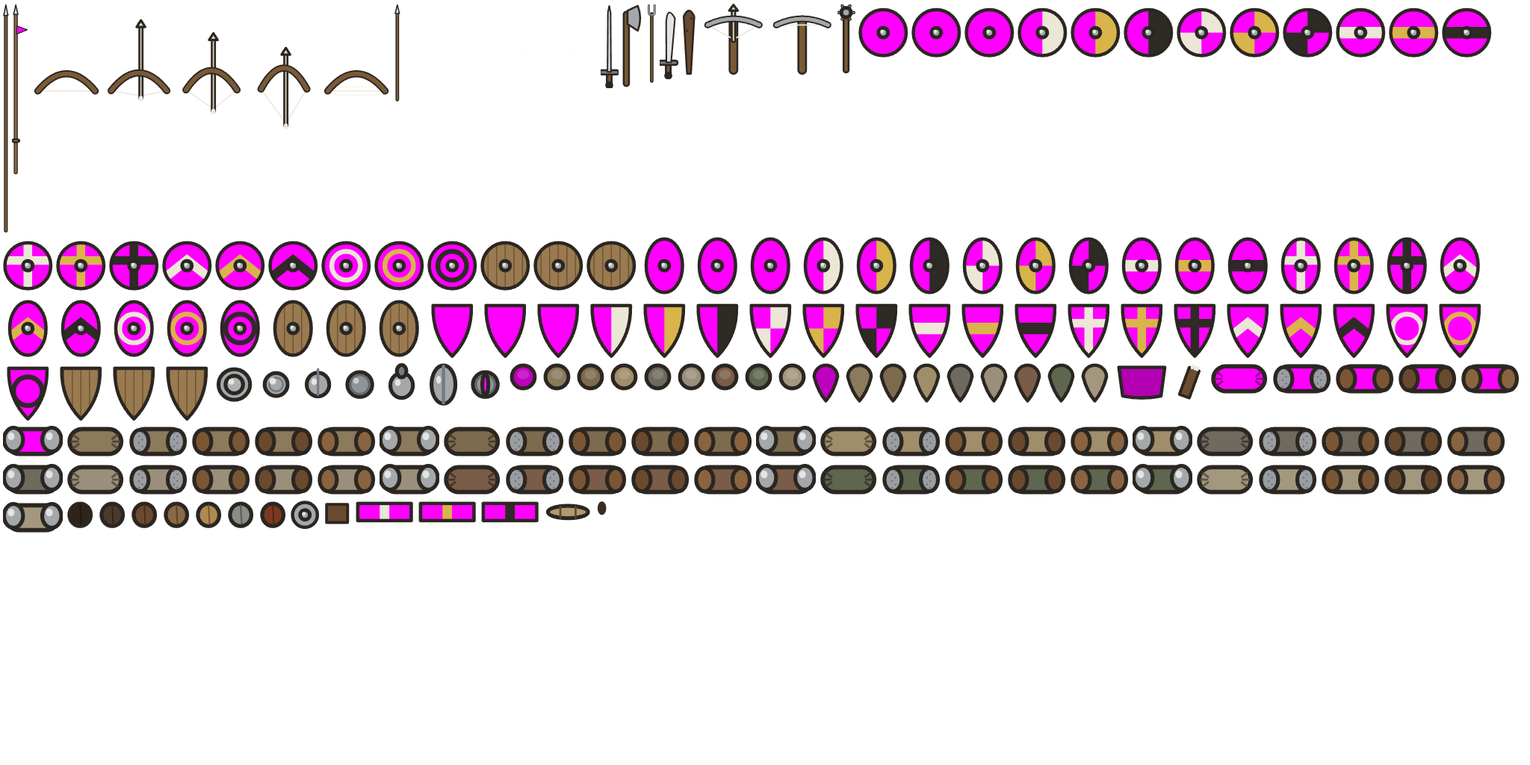
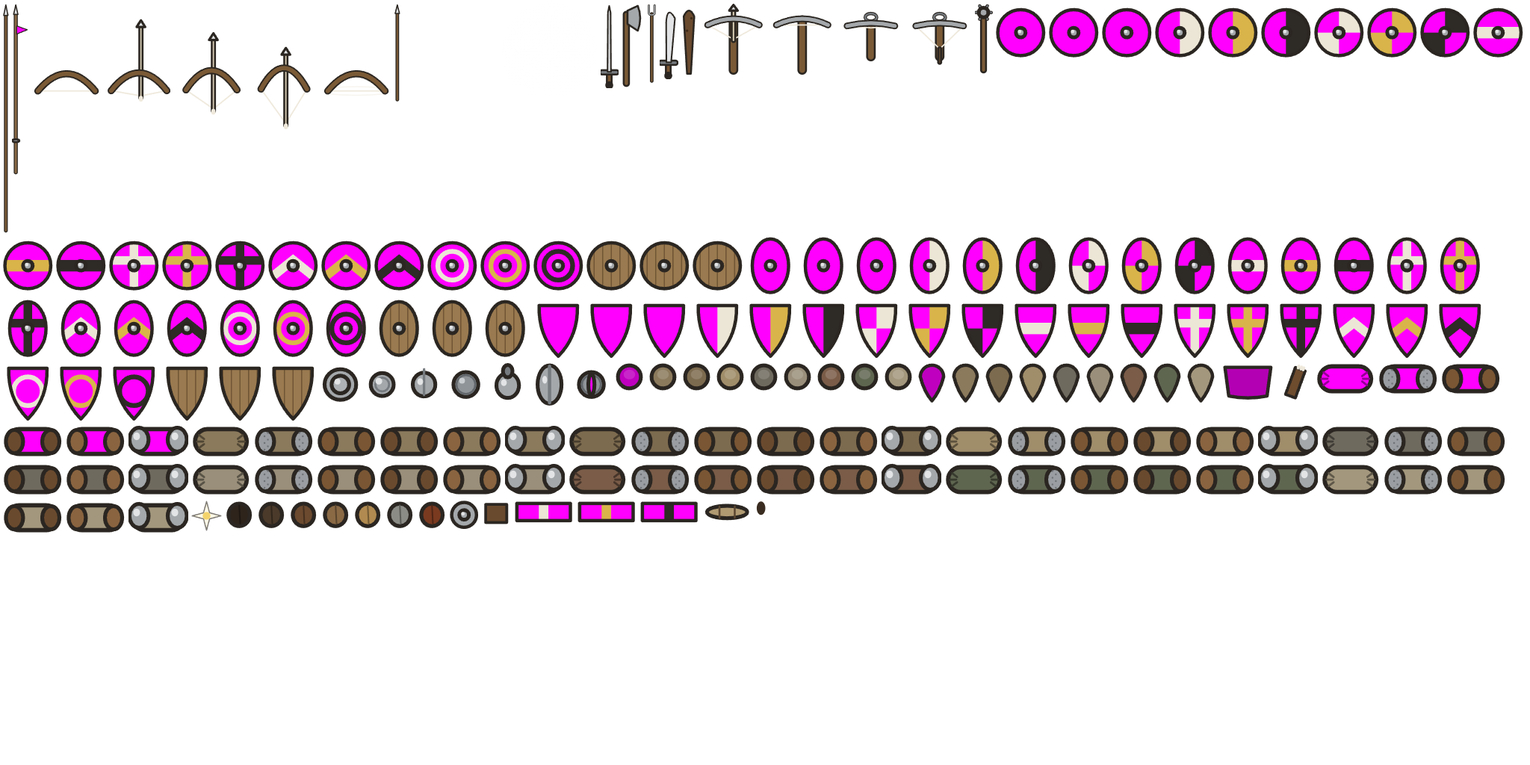
Анимации, пачка 1 (В13): конь из частей и аллюры, древки к бою, удары, взвод арбалета, раненые
- Конь из частей: ноги, хвост, туловище, голова, попона; аллюр по скорости — шаг, рысь, галоп; стоящий конь переступает, машет хвостом, вскидывает голову
- Фаза шага копится по пройденному пути: ноги пеших и коней не скользят при смене скорости
- Пики и копья стоймя на марше, опускаются у врага (схватка или ближе 30 м) — передние первыми
- Удары: меч рубит и колет, топор, булава и дубина — сбоку и сверху; щит навстречу удару; вспышка в миг удара
- Арбалет взводят через стремя (xbow/2, xbow/3); бегущие оглядываются; сплотившиеся ликуют
- Павший сначала качнётся от удара, потом падает; всадник слетает с убитого коня
- Раненые (Г39): движок отмечает убит/ранен и в рукопашной — по доле убитых в итогах удара стола (ожидаемой, пока окно удара не закрыто); раненый бросает оружие и ползёт прочь от врага с кровавым следом или корчится, потом затихает. Только вид, правила те же
- Полигон: сцена «Облик: анимации»; павшие с признаком убит/ранен
- Атласы Unity: hrig/… (конь по частям), crawl/… (раненый), xbow/2–3, util/spark; старые части на месте
- Тесты: раненые в рукопашной; прогон тестов бойцов — `dotnet run --project Tests -- men`

Changed region(s): [[0.0, 0.3125, 1.0, 0.7188], [0.5312, 0.0, 1.0, 0.0938]]

diff --git a/core/Tests/atlas-export.js b/core/Tests/atlas-export.js
@@ -45,12 +45,13 @@
     // древки длинные и тонкие — им хватает половины разрешения, иначе одна полка атласа занимает полвысоты
     for(const w of Object.keys(WBOX)) add("men", "weapon/" + w, WBOX[w], g => paintWeapon(g, w, KEY), ["pike", "lance", "spear", "fork"].includes(w) ? 0.5 : 1);
     for(let st = 0; st <= 4; st++) add("men", "bow/" + st, [-0.36, -1.12, 0.36, 0.2], g => paintBow(g, st));
-    for(let st = 0; st <= 1; st++) add("men", "xbow/" + st, [-0.3, -0.68, 0.38, 0.08], g => paintXbow(g, st));
+    for(let st = 0; st <= 3; st++) add("men", "xbow/" + st, [-0.3, -0.68, 0.38, 0.08], g => paintXbow(g, st));   // 2, 3 — взвод через стремя (В13)
     add("men", "boot", [-0.06, -0.08, 0.06, 0.08], g => ell(g, 0, 0, 0.045, 0.07, "#3a2c20", 0, false));
     // служебные: белый круг и мягкое пятно (кровь, тени — Unity красит цветом вершины), белый квадрат (стрелы)
     add("men", "util/disc", [-0.5, -0.5, 0.5, 0.5], g => { g.beginPath(); g.arc(0, 0, 0.48, 0, 6.283); g.fillStyle = "#fff"; g.fill(); });
     add("men", "util/soft", [-0.5, -0.5, 0.5, 0.5], g => { const gr = g.createRadialGradient(0, 0, 0, 0, 0, 0.5); gr.addColorStop(0, "rgba(255,255,255,1)"); gr.addColorStop(0.6, "rgba(255,255,255,.55)"); gr.addColorStop(1, "rgba(255,255,255,0)"); g.fillStyle = gr; g.fillRect(-0.5, -0.5, 1, 1); });
     add("men", "util/px", [-0.05, -0.05, 0.05, 0.05], g => { g.fillStyle = "#fff"; g.fillRect(-0.05, -0.05, 0.1, 0.1); });
+    add("men", "util/spark", [-0.16, -0.16, 0.16, 0.16], paintSpark);   // вспышка удара (В13)
     // кони: масть × попона × кадр галопа (−1 — стоит)
     COATS.forEach((coat, ci) => {
       const bards = [["none", 0], ["cloth", 0], ["full", 0], ["full", 1], ["full", 2]];
@@ -58,11 +59,28 @@
         add("horses", `horse/${ci}/${bard}${bard === "full" ? "/" + c2i : ""}/${f}`, [-0.36, -1.36, 0.36, 1.37],
           g => paintHorse(g, {coat, bard, col: KEY, c2: C2[c2i]}, f));
       for(const bard of ["none", "cloth", "full"]) add("dead", `deadhorse/${ci}/${bard}`, [-0.5, -1.35, 0.75, 1.0], g => paintDeadHorse(g, {coat, bard, col: KEY}));
+      // конь по частям (В13): ноги, хвост, туловище, голова (у полной барды — в стальном налобнике); места и походка —
+      // HLEG, HTAIL, HNECK и horsePose в polygon-men.js
+      const k = {coat, bard: "none", col: KEY};
+      add("horses", `hrig/leg/${ci}`, HBOX.leg, g => paintHorseLeg(g, k));
+      add("horses", `hrig/tail/${ci}`, HBOX.tail, g => paintHorseTail(g, k));
+      add("horses", `hrig/body/${ci}`, HBOX.body, g => paintHorseBody(g, k));
+      add("horses", `hrig/head/${ci}`, HBOX.head, g => paintHorseHead(g, k));
+      add("horses", `hrig/head/${ci}/full`, HBOX.head, g => paintHorseHead(g, {coat, bard: "full", col: KEY}));
     });
+    // попоны поверх туловища: седло, чепрак цвета стороны, полная барда с полосой герба
+    add("horses", "hrig/cover/none", HBOX.cover, g => paintHorseCover(g, {bard: "none", col: KEY}));
+    add("horses", "hrig/cover/cloth", HBOX.cover, g => paintHorseCover(g, {bard: "cloth", col: KEY}));
+    C2.forEach((c2, i) => add("horses", "hrig/cover/full/" + i, HBOX.cover, g => paintHorseCover(g, {bard: "full", col: KEY, c2})));
     // павшие: лежит на спине, голова — к −y (её рисует Unity шлемом), ноги у начала
     for(const ck of CLOTH_KEYS) for(const a of ARMOURS) for(let v = 0; v < 2; v++){
       const [armour, leather] = armourOf(a);
       add("dead", `corpse/${ck}/${a}/${v}`, [-0.72, -0.5, 0.72, 0.95], g => corpseBody(g, clothOf(ck), armour, leather, v));
+    }
+    // раненый ползёт (Г39, В13): лицом вниз, без головы (её Unity кладёт шлемом), рывок за рывком — отражённый рисунок
+    for(const ck of CLOTH_KEYS) for(const a of ARMOURS){
+      const [armour, leather] = armourOf(a);
+      add("dead", `crawl/${ck}/${a}`, [-0.5, -1.06, 0.45, 0.95], g => paintCrawlBody(g, clothOf(ck), armour, leather));
     }
     // природа: кроны деревьев (4 палитры × 6 форм), кусты, камни — радиус 1, Unity растягивает до нужного
     TREES.forEach((pal, pi) => { for(let s = 0; s < 6; s++) add("nature", `tree/${pi}/${s}`, [-1.2, -1.2, 1.2, 1.2], g => crownUnit(g, s * 977 + pi * 31, pal, 7)); });

diff --git a/core/Tests/Polygon.cs b/core/Tests/Polygon.cs
@@ -278,6 +278,27 @@ static class Polygon
             if (rec1.Fleeing) rally.Battle.Order(rec1, new MoveOrder { Kind = OrderKind.Rally });   // игрок приказывает каждый ход, пока бегут
         };
         list.Add(rally);
+
+        // Облик (В13): анимации пачки 1 — древки к бою, взвод арбалета, аллюры коня, удары, павшие и раненые
+        var anim = new Scene { Name = "Облик: анимации", Turns = 3, Geo = MoveTests.Open(1300, 800),
+            Note = "В13. Слева пикинёры идут на пехоту с пиками стоймя и опускают их, когда до врага 30 м, — передние первыми. " +
+                   "Дальше арбалетчики бьют по пехоте и взводят арбалеты через стремя. Пехота рубит ополчение: удары сбоку и сверху, " +
+                   "уколы, щит навстречу удару, вспышка в миг удара. Справа рыцари шагом и рысью выходят на 40 м и встают — кони переступают " +
+                   "и машут хвостами. Павший сначала качнётся от удара, потом падает; раненые (доля — по итогам удара стола, Г39) " +
+                   "ползут прочь от врага, оставляя кровавый след, или корчатся на месте и через 4–12 с затихают." };
+        anim.Battle = new Battle(anim.Geo, R0, new EngineContext { Rng = new Mulberry32(13).Next });
+        anim.Fighter("infantry", 2, "Враг: пехота", 190, 420, 0, faction: 2, men: 400);
+        var apk = anim.Fighter("pikemen", 1, "Пикинёры", 190, 420 - 170, 180, men: 400);
+        anim.Fighter("infantry", 4, "Враг: пехота Б", 520, 420, 0, faction: 2, men: 400);
+        var axb = anim.Fighter("crossbowmen", 3, "Арбалетчики", 520, 420 - 115, 180, men: 300);
+        anim.Fighter("militia", 6, "Враг: ополчение", 850, 420, 0, faction: 2, men: 400);
+        var ain = anim.Fighter("infantry", 5, "Пехота", 850, 420 - (4 + 0.5 + 4), 180, men: 400);
+        var akn = anim.Fighter("knights", 7, "Рыцари", 1150, 640, 0, men: 200);
+        anim.Order(apk, new MoveOrder { Kind = OrderKind.Attack, TargetId = 2 });
+        anim.Order(axb, new MoveOrder { Kind = OrderKind.Attack, TargetId = 4 });
+        anim.Order(ain, new MoveOrder { Kind = OrderKind.Attack, TargetId = 6 });
+        anim.Order(akn, new MoveOrder { X = 1150, Y = 600, Facing = 0 });
+        list.Add(anim);
         return list;
     }
     static readonly Rules R0 = Rules.Base;
@@ -340,7 +361,8 @@ static class Polygon
             // бой (БД1): численность по кадрам и где упали фигурки — [x, y, номер кадра]
             var soldiers = new List<double[]> { ms.Select(m => Math.Round(m.P.U.Soldiers)).ToArray() };
             var fallen = ms.Select(_ => new List<double[]>()).ToList();
-            // павшие поимённо (Г67): [x, y, кадр, отряд, куда смотрел, откуда удар, часть тела 0 голова 1 корпус 2 ноги 3 конь]
+            // павшие поимённо (Г67): [x, y, кадр, отряд, куда смотрел, откуда удар, часть тела 0 голова 1 корпус 2 ноги 3 конь,
+            // номер бойца, убит 1 / ранен 0 (Г39, В13)]
             var dead = new List<double[]>();
             var idx = ms.Select((m, i) => (m.P.U.Id, i)).ToDictionary(p => p.Id, p => p.i);
             int seenDead = 0;
@@ -374,7 +396,7 @@ static class Polygon
                         {
                             var d = sc.Battle.Deaths[seenDead];
                             int part = d.Part == "head" ? 0 : d.Part == "legs" ? 2 : d.Part == "horse" ? 3 : 1;
-                            dead.Add(new[] { Math.Round(d.X, 2), Math.Round(d.Y, 2), frames.Count - 1, idx[d.UnitId], Math.Round(d.Facing), Math.Round(d.Dir), part, d.ManId });
+                            dead.Add(new[] { Math.Round(d.X, 2), Math.Round(d.Y, 2), frames.Count - 1, idx[d.UnitId], Math.Round(d.Facing), Math.Round(d.Dir), part, d.ManId, d.Killed ? 1 : 0 });
                         }
                     for (int i = 0; i < ms.Count; i++)
                         while (fallen[i].Count < ms[i].Fallen.Count)

diff --git a/core/Package/Runtime/Battle.cs b/core/Package/Runtime/Battle.cs
@@ -713,8 +713,19 @@ namespace BattleCore
 
         // Павшие в рукопашной (Г67): точного места нет — падают у переднего края схватки, в случайной точке
         // касающихся фигурок, лицом к врагу, кровь брызжет назад (от удара). Случайность — своя, только для рисунка.
+        // Г39, В13: кто из павших убит, а кто ранен — по итогам удара стола: доля убитых среди потерь отряда с прошлого раза.
+        // Численность в схватке тает по ходу окна удара, а убитые и раненые пишутся, когда окно закрылось, — пока итогов
+        // нет, доля ожидаемая: летальность стола со средним броском (Base + (Die + 1)/2 ÷ (опыт ÷ ExpDiv)).
+        // Только для рисунка (раненый ползёт): численность и правила не меняются
+        readonly Dictionary<Mover, (double k, double w)> meleeSeen = new Dictionary<Mover, (double k, double w)>();
         void MeleeDeaths(Mover m, int n)
         {
+            var mu = m.P.U; var Lt = R.Lethality;
+            meleeSeen.TryGetValue(m, out var seen);
+            double dk = mu.TotKilled - seen.k, dw = mu.TotWounded - seen.w;
+            meleeSeen[m] = (mu.TotKilled, mu.TotWounded);
+            double expected = Js.Clamp(Lt.Base + (Lt.Die + 1) / 2.0 / (Math.Max(1, mu.Exp) / Lt.ExpDiv), 0, 100) / 100;
+            double killedShare = dk + dw > 1e-9 ? Math.Max(0, Math.Min(1, dk / (dk + dw))) : expected;
             // Г78: падают те, кто у врага — бойцы касающихся фигурок, ближние к фигурке врага (по тому, где стоят, а не по
             // месту в строю: пересаженный вперёд ещё идёт), чуть вперемешку (хешем); никто не касается — ближайшие к врагу
             var alive = m.Men.Where(x => x.Alive && x.Fig != null).ToList();
@@ -744,7 +755,8 @@ namespace BattleCore
                 Deaths.Add(new Death
                 {
                     X = x.X, Y = x.Y, T = curT, Facing = x.Facing + (look() - 0.5) * 60, Dir = dir + (look() - 0.5) * 50,
-                    UnitId = m.P.U.Id, ManId = x.Id, Part = u < 0.25 ? "head" : u < 0.8 ? "torso" : "legs", Killed = true,
+                    UnitId = m.P.U.Id, ManId = x.Id, Part = u < 0.25 ? "head" : u < 0.8 ? "torso" : "legs",
+                    Killed = MoveSim.Hash01(m.P.U.Id, x.Id, 16) < killedShare,
                 });
             }
         }

diff --git a/core/Tests/MenTests.cs b/core/Tests/MenTests.cs
@@ -152,6 +152,17 @@ static class MenTests
             True(Math.Abs(alive - Math.Round(b.P.U.Soldiers)) <= 5, $"бойцов {alive}, в строю {b.P.U.Soldiers:0}");
         });
 
+        yield return ("раненые (Г39, В13): в рукопашной павшие — и убитые, и раненые, доля убитых как в итогах удара стола", () =>
+        {
+            var (bt, a, b) = Duel("infantry", "infantry", 0.5, 5);
+            bt.Turn(); bt.Turn();
+            var melee = bt.Deaths.Where(d => d.UnitId == 2).ToList();
+            int killed = melee.Count(d => d.Killed), wounded = melee.Count - killed;
+            double table = b.P.U.TotKilled / Math.Max(1e-9, b.P.U.TotKilled + b.P.U.TotWounded), seen = killed / (double)Math.Max(1, melee.Count);
+            True(melee.Count >= 30 && killed > 0 && wounded > 0, $"павших {melee.Count}: убитых {killed}, раненых {wounded}");
+            True(Math.Abs(seen - table) < 0.15, $"доля убитых {seen:0.00}, у стола {table:0.00}");
+        });
+
         yield return ("бойцы: одно зерно — один исход", () =>
         {
             double[] Run()

diff --git a/SPEC.md b/SPEC.md
@@ -285,6 +285,15 @@
 - В10 — каждый боец идёт на своё место (02.10.2026, просьба Алекса «не телепортироваться при потерях»). Тела (фигурки по 10 бойцов) двигает движок, а бойцов внутри полигон ведёт сам — по всем кадрам сцены. У бойца своё место в фигурке, к нему он идёт шагом и не обгоняет тело. Павший — ближайший к месту гибели боец, и тело ложится там, где он стоял, в его снаряжении. На место павшего шагает стоящий позади. Если движок убрал тело, его бойцы встают в ближайшие фигурки, и строй смыкается от соседа к соседу (Г30). Курс фигурки — куда она идёт: колонна на мосту смотрит вдоль моста, а не туда, куда весь отряд. Стоит — курс отряда. Пятится или шагает вбок (Г54) — не разворачивается. Курс от движка (охват, бегство) главнее.
 - В11 — бегство и сплочение (по состояниям отряда из БД4). Бегущие бегут рассыпной толпой, щит закинут за спину. Почти половина бросает оружие: оно остаётся лежать там, где побежали. Знамя падает и лежит, пока отряд бежит. Пока приказ «сплотить» ждёт — знамя поднято и машет на бегу; сплотившись, отряд ещё несколько секунд машет знаменем. Кто ушёл за край карты, пропадает, а не встаёт в чужие фигурки.
 - В12 — строй живой, а не плитами (02.10.2026, после жалобы Алекса). У каждого бойца свой разгон и свой темп поворота: строй трогается, останавливается и поворачивается не как одна плита. Бойцы одного отряда расталкиваются и не налезают друг на друга. По движению фигурка смотрит, только когда отряд сложен в колонну; в линии все держат курс отряда. «Кругом» (Г52) — каждый поворачивается на месте, задняя шеренга становится передней, а не обходит фигурку по кругу.
+- В13 — анимации, пачка 1 (02.10.2026, просьба Алекса «больше анимаций»; по разбору Iron Kings, `docs/iron-kings.md`). Код — `core/Tests/polygon-men.js`, части атласов — `atlas-export.js`; в Unity переносит чат облика.
+  - Конь из частей: ноги (4), хвост, туловище, голова с шеей, попона (`hrig/…`); поза — `horsePose`. Аллюр по скорости: стоит < 0,35 м/с ≤ шаг < 2,3 ≤ рысь < 4,8 ≤ галоп. Ноги ходят вперёд-назад со сдвигом по фазе: на шаге по одной, на рыси диагоналями, на галопе — задние, потом передние. Голова кивает, хвост машет, всадника качает. Стоящий конь переступает задней ногой, отмахивается хвостом, вскидывает голову.
+  - Фаза шага копится по пройденному пути: путь делится на длину круга (пеший 1,4 м шагом, 2,4 м бегом; конь — по аллюру), поэтому ноги не скользят при смене скорости.
+  - Древки к бою: копья и пики стоймя на марше и в покое. Отряд в схватке или край врага ближе 30 м — опускают за 1,2 с, передняя шеренга первой (копья — в 2 шеренгах, пики — в 4); враг отошёл — поднимают за 2 с.
+  - Удары: меч то рубит, то колет; топор, булава и дубина бьют то сбоку, то сверху (`chopPose`). Каждый удар выбирается заново, у соседей разный порядок. Между своими ударами щит идёт вперёд, навстречу врагу. В миг удара у острия вспыхивает звёздочка (`util/spark`) и гаснет за 0,1 с.
+  - Арбалет взводят через стремя: боец нагибается к стремени, потом тянет тетиву крюком к поясу (`xbow/2`, `xbow/3`).
+  - Бегущие оглядываются через плечо: почти половина, раз в 2–4 с. Сплотившиеся первые 4 с вскидывают оружие и подпрыгивают.
+  - Павший первые 0,15 с ещё стоит и качается по удару, потом падает. Всадник с убитого коня за 0,55 с слетает в сторону.
+  - Раненые: движок пишет, убит павший или ранен (`Death.Killed`). У стрел это решает часть тела (Г39), в рукопашной — доля убитых в итогах удара стола. Раненый бросает оружие и щит и ползёт рывками прочь от врага (0,32 м за 0,9 с, рисунок `crawl/…` отражается на каждом рывке), оставляя кровавый след; треть раненых корчится на месте. Через 4–12 с затихает. Только вид — на правила не влияет.
 
 **Инструменты и код (Г4, Г11, Г12, Г14).**
 - Unity (ставит Алекс через Unity Hub — вход в аккаунт только его; версия — последняя LTS в Hub; условия лицензии проверить в Hub). .NET SDK 10 LTS — для движка и его тестов (`dotnet test`, без Unity).
